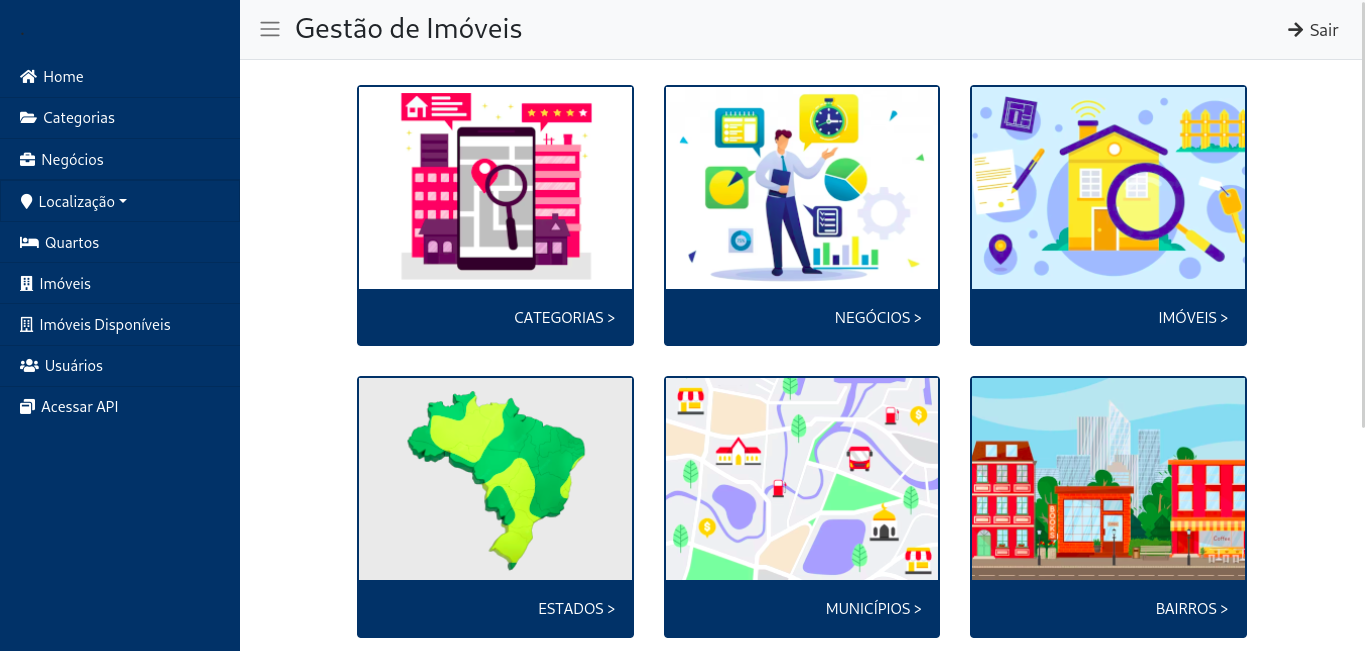
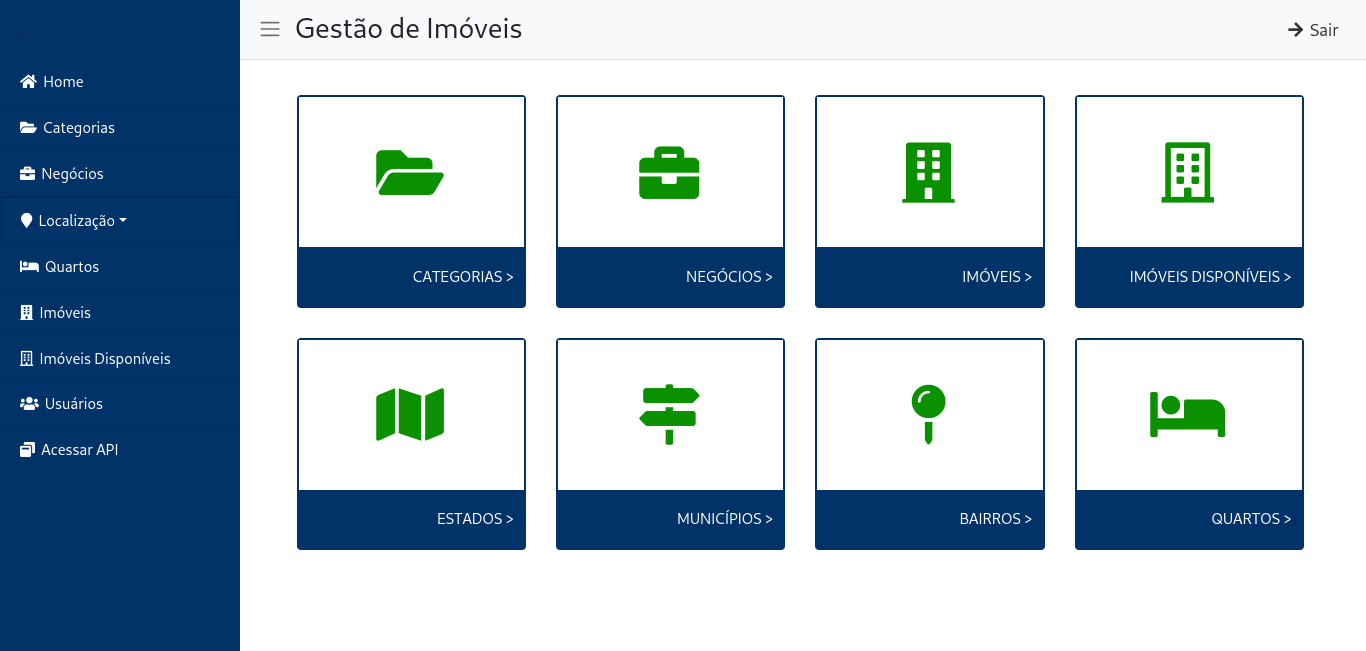
Atualização de arquivos

diff --git a/src/main/resources/templates/indexAdmin.html b/src/main/resources/templates/indexAdmin.html
@@ -6,74 +6,84 @@
 <body>
 <section layout:fragment="content" class="margin-card">
     <div class="row">
-        <div class="card col-card bg-dark">
-            <a th:href="@{/classificador/categorias}">
-                <img class="card-img-home" th:src="@{/images/categorias.png}">
-            </a>
-            <div class="card-body text-right">
-                <p class="card-text">
-                    <a class="text-white" th:href="@{/classificador/categorias}">CATEGORIAS ></a>
-                </p>
+        <div class="card col-card bg-card">
+            <div class="card-icon">
+                <a th:href="@{/classificador/categorias}">
+                    <i class="fas fa-folder-open fa-fw fa-4x padding-y-3xs"></i>
+                </a>
+            </div>
+            <div class="card-text text-right">
+                <a class="text-white" th:href="@{/classificador/categorias}">CATEGORIAS ></a>
             </div>
         </div>
-        <div class="card col-card bg-dark">
-            <a th:href="@{/classificador/negocios}">
-                <img class="card-img-home" th:src="@{/images/negocios.png}" alt="Negócios">
-            </a>
-            <div class="card-body text-right">
-                <p class="card-text">
-                    <a class="text-white" th:href="@{/classificador/negocios}">NEGÓCIOS ></a>
-                </p>
+        <div class="card col-card bg-card">
+            <div class="card-icon">
+                <a th:href="@{/classificador/negocios}">
+                    <i class="fas fa-briefcase fa-fw fa-4x padding-y-3xs"></i>
+                </a>
+            </div>
+            <div class="card-text text-right">
+                <a class="text-white" th:href="@{/classificador/negocios}">NEGÓCIOS ></a>
             </div>
         </div>
-        <div class="card col-card bg-dark">
-            <a th:href="@{/imovel/todos}">
-                <img class="card-img-home" th:src="@{/images/imoveis.png}" alt="Imóveis">
-            </a>
-            <div class="card-body text-right">
-                <p class="card-text">
-                    <a class="text-white" th:href="@{/imovel/todos}"> IMÓVEIS ></a>
-                </p>
+        <div class="card col-card bg-card">
+            <div class="card-icon">
+                <a th:href="@{/imovel/todos}">
+                    <i class="fas fa-building fa-fw fa-4x padding-y-3xs"></i>
+                </a>
+            </div>
+            <div class="card-text text-right">
+                <a class="text-white" th:href="@{/imovel/todos}"> IMÓVEIS ></a>
             </div>
         </div>
-        <div class="card col-card bg-dark">
-            <a th:href="@{/localidade/estados}">
-                <img class="card-img-home" th:src="@{/images/estados.png}" alt="Estados">
-            </a>
-            <div class="card-body text-right">
-                <p class="card-text">
-                    <a class="text-white" th:href="@{/localidade/estados}">ESTADOS ></a>
-                </p>
+        <div class="card col-card bg-card">
+            <div class="card-icon">
+                <a th:href="@{/imovel/imoveis-disponiveis}" target="_blank">
+                    <i class="fas fa-building fa-fw fa-4x padding-y-3xs" style="font-weight: 100 !important"></i>
+                </a>
+            </div>
+            <div class="card-text text-right">
+                <a class="text-white" th:href="@{/imovel/imoveis-disponiveis}" target="_blank"> IMÓVEIS DISPONÍVEIS ></a>
             </div>
         </div>
-        <div class="card col-card bg-dark">
-            <a th:href="@{/localidade/municipios}">
-                <img class="card-img-home" th:src="@{/images/municipios.png}" alt="Municípios">
-            </a>
-            <div class="card-body text-right">
-                <p class="card-text">
-                    <a class="text-white" th:href="@{/localidade/municipios}">MUNICÍPIOS ></a>
-                </p>
+        <div class="card col-card bg-card">
+            <div class="card-icon">
+                <a th:href="@{/localidade/estados}">
+                    <i class="fas fa-map fa-fw fa-4x padding-y-3xs"></i>
+                </a>
+            </div>
+            <div class="card-text text-right">
+                <a class="text-white" th:href="@{/localidade/estados}">ESTADOS ></a>
             </div>
         </div>
-        <div class="card col-card bg-dark">
-            <a th:href="@{/localidade/bairros}">
-                <img class="card-img-home" th:src="@{/images/bairros.png}" alt="Bairros">
-            </a>
-            <div class="card-body text-right">
-                <p class="card-text">
-                    <a class="text-white" th:href="@{/localidade/bairros}">BAIRROS ></a>
-                </p>
+        <div class="card col-card bg-card">
+            <div class="card-icon">
+                <a th:href="@{/localidade/municipios}">
+                    <i class="fas fa-map-signs fa-fw fa-4x padding-y-3xs"></i>
+                </a>
+            </div>
+            <div class="card-text text-right">
+                <a class="text-white" th:href="@{/localidade/municipios}">MUNICÍPIOS ></a>
             </div>
         </div>
-        <div class="card col-card bg-dark">
-            <a th:href="@{/classificador/quartos}">
-                <img class="card-img-home" th:src="@{/images/quartos.png}" alt="Quartos">
-            </a>
-            <div class="card-body text-right">
-                <p class="card-text">
-                    <a class="text-white" th:href="@{/classificador/quartos}">QUARTOS ></a>
-                </p>
+        <div class="card col-card bg-card">
+            <div class="card-icon">
+                <a th:href="@{/localidade/bairros}">
+                    <i class="fas fa-map-pin fa-fw fa-4x padding-y-3xs"></i>
+                </a>
+            </div>
+            <div class="card-text text-right">
+                <a class="text-white" th:href="@{/localidade/bairros}">BAIRROS ></a>
+            </div>
+        </div>
+        <div class="card col-card bg-card">
+            <div class="card-icon">
+                <a th:href="@{/classificador/quartos}">
+                    <i class="fas fa-bed fa-fw fa-4x padding-y-3xs"></i>
+                </a>
+            </div>
+            <div class="card-text text-right">
+                <a class="text-white" th:href="@{/classificador/quartos}">QUARTOS ></a>
             </div>
         </div>
     </div>

diff --git a/src/main/resources/templates/fragments/layout.html b/src/main/resources/templates/fragments/layout.html
@@ -23,38 +23,38 @@
 <body>
 <div class="d-flex" id="wrapper">
     <!-- Sidebar -->
-    <div class="bg-dark border-right text-white" id="sidebar-wrapper">
+    <div class="bg-menu border-right text-white" id="sidebar-wrapper">
         <div class="sidebar-heading text-dark">.</div>
         <div class="list-group list-group-flush">
-            <a class="list-group-item list-group-item-action bg-dark text-white" th:href="@{/}">
+            <a class="list-group-item list-group-item-action bg-menu text-white" th:href="@{/}">
                 <i class="fas fa-home"></i> Home</a>
-            <a class="list-group-item list-group-item-action bg-dark text-white"
+            <a class="list-group-item list-group-item-action bg-menu text-white"
                th:href="@{/classificador/categorias}">
                 <i class="fas fa-folder-open"></i> Categorias</a>
-            <a class="list-group-item list-group-item-action bg-dark text-white"
+            <a class="list-group-item list-group-item-action bg-menu text-white"
                th:href="@{/classificador/negocios}">
                 <i class="fas fa-briefcase"></i> Negócios</a>
             <div class="dropright show">
-                <a class="list-group-item list-group-item-action bg-dark text-white dropdown-toggle"
+                <a class="list-group-item list-group-item-action bg-menu text-white dropdown-toggle"
                    href="#" role="button" id="dropdownMenuLink" data-toggle="dropdown" aria-haspopup="true"
                    aria-expanded="false">
                     <i class="fas fa-map-marker"></i> Localização</a>
-                <div class="dropdown-menu bg-dark" aria-labelledby="dropdownMenuLink">
-                    <a class="dropdown-item text-white bg-dark" th:href="@{/localidade/estados}">Estados</a>
-                    <a class="dropdown-item text-white bg-dark" th:href="@{/localidade/municipios}">Municípios</a>
-                    <a class="dropdown-item text-white bg-dark" th:href="@{/localidade/bairros}">Bairros</a>
+                <div class="dropdown-menu bg-menu" aria-labelledby="dropdownMenuLink">
+                    <a class="dropdown-item text-white bg-menu" th:href="@{/localidade/estados}">Estados</a>
+                    <a class="dropdown-item text-white bg-menu" th:href="@{/localidade/municipios}">Municípios</a>
+                    <a class="dropdown-item text-white bg-menu" th:href="@{/localidade/bairros}">Bairros</a>
                 </div>
             </div>
-            <a class="list-group-item list-group-item-action bg-dark text-white"
+            <a class="list-group-item list-group-item-action bg-menu text-white"
                th:href="@{/classificador/quartos}">
                 <i class="fas fa-bed"></i> Quartos</a>
-            <a class="list-group-item list-group-item-action bg-dark text-white" th:href="@{/imovel/todos}">
+            <a class="list-group-item list-group-item-action bg-menu text-white" th:href="@{/imovel/todos}">
                 <i class="fas fa-building"></i> Imóveis</a>
-            <a class="list-group-item list-group-item-action bg-dark text-white" th:href="@{/imovel/imoveis-disponiveis}"
+            <a class="list-group-item list-group-item-action bg-menu text-white" th:href="@{/imovel/imoveis-disponiveis}"
                target="_blank"><i class="fas fa-building" style="font-weight: 100 !important"></i> Imóveis Disponíveis</a>
-            <a class="list-group-item list-group-item-action bg-dark text-white"
+            <a class="list-group-item list-group-item-action bg-menu text-white"
                th:href="@{/usuario/todos}"><i class="fas fa-users"></i> Usuários</a>
-            <a class="list-group-item list-group-item-action bg-dark text-white" th:href="@{/swagger-ui.html}"
+            <a class="list-group-item list-group-item-action bg-menu text-white" th:href="@{/swagger-ui.html}"
                target="_blank"><i class="fas fa-window-restore"></i> Acessar API</a>
         </div>
     </div>

diff --git a/src/main/resources/static/css/style.css b/src/main/resources/static/css/style.css
@@ -24,7 +24,11 @@ body {
     padding: 8px;
 }
 
-.bg-dark {
+.bg-menu {
+    background-color: #013268 !important;
+}
+
+.bg-card {
     background-color: #013268 !important;
 }
 
@@ -37,22 +41,22 @@ body {
 }
 
 .list-group-item {
-    padding: .55rem 1.25rem !important;
+    padding: .70rem 1.25rem !important;
 }
 
 .dropdown-menu {
     transform: translate3d(240px, 227px, 0px) !important;
-    top: -48px !important;
+    top: -34px !important;
     left: -1px !important;
     padding: 0px !important;
 }
 
 .dropdown-item {
-    padding: .58rem 1.25rem !important;
+    padding: .70rem 1.25rem !important;
 }
 
 .margin-card {
-    margin: 10px 90px !important;
+    margin: 20px 30px !important;
 }
 
 .margin-card-imovel {
@@ -62,8 +66,8 @@ body {
 .col-card {
     -webkit-box-flex: 0;
     -ms-flex: 0 0 30%;
-    flex: 0 0 30%;
-    min-width: 30%;
+    flex: 0 0 22%;
+    min-width: 22%;
 }
 
 .col-card-imovel {
@@ -79,6 +83,16 @@ body {
 	border: 0px !important;
 }
 
+.card-icon {
+    text-align: center;
+    padding: 45px 35px;
+    background-color: #fff !important;
+}
+
+.card-icon i {
+    color: #0b9100 !important;
+}
+
 .card-imovel {
   padding: 2px;
   margin: 6px;
@@ -91,16 +105,19 @@ body {
 	width: 100% !important;
 }
 
-.card-body p {
-    margin-top: 1px;
-    margin-bottom: 10px;
+.card-text {
+    padding: 18px 10px;
 }
 
-.card-body a {
+.card-imovel-text {
+    padding: 10px;
+}
+
+.card-text a {
    text-decoration: none !important;
 }
 
-.card-body a:hover {
+.card-text a:hover {
    text-decoration: underline !important;
 }
 
@@ -535,7 +552,7 @@ table.dataTable.dtr-inline.collapsed > tbody > tr > td.dtr-control::before {
 }
 
 #sidebar-wrapper .sidebar-heading {
-    padding: 0.875rem 1.25rem;
+    padding: 0.950rem 1.25rem;
     font-size: 1.2rem;
 }
 

diff --git a/src/main/resources/templates/indexUsuario.html b/src/main/resources/templates/indexUsuario.html
@@ -16,14 +16,14 @@
         </div>
     </div>
     <div id="imoveis" class="row">
-        <div class="card-imovel col-card-imovel bg-dark" th:each="imovel:${imoveis}">
+        <div class="card-imovel col-card-imovel bg-card" th:each="imovel:${imoveis}">
             <span th:unless="${imovel.imagens.size>0}">
                 <img class="card-img-imovel-home" th:src="@{/images/imoveis.png}" alt="Imóveis">
             </span>
             <a th:if="${imovel.imagens.size>0}" th:href="@{/imovel/visualizar/imovel-usuario/{id}(id=${imovel.id})}">
                 <img class="card-img-imovel-home" th:src="@{${'/imagem/'+imovel.imagens[0].file}}">
             </a>
-            <div class="card-body text-white">
+            <div class="card-imovel-text text-white">
                 <h5 th:text="${imovel.negocio.nome+' ('+imovel.categoria.nome+')'}"></h5>
                 <p th:text="${imovel.bairro.municipio.nome+'/'+imovel.bairro.municipio.estado.uf}"></p>
                 <p th:inline="text">R$ [[${#numbers.formatDecimal(imovel.valor, 0, 'COMMA', 2, 'POINT')}]]</p>
